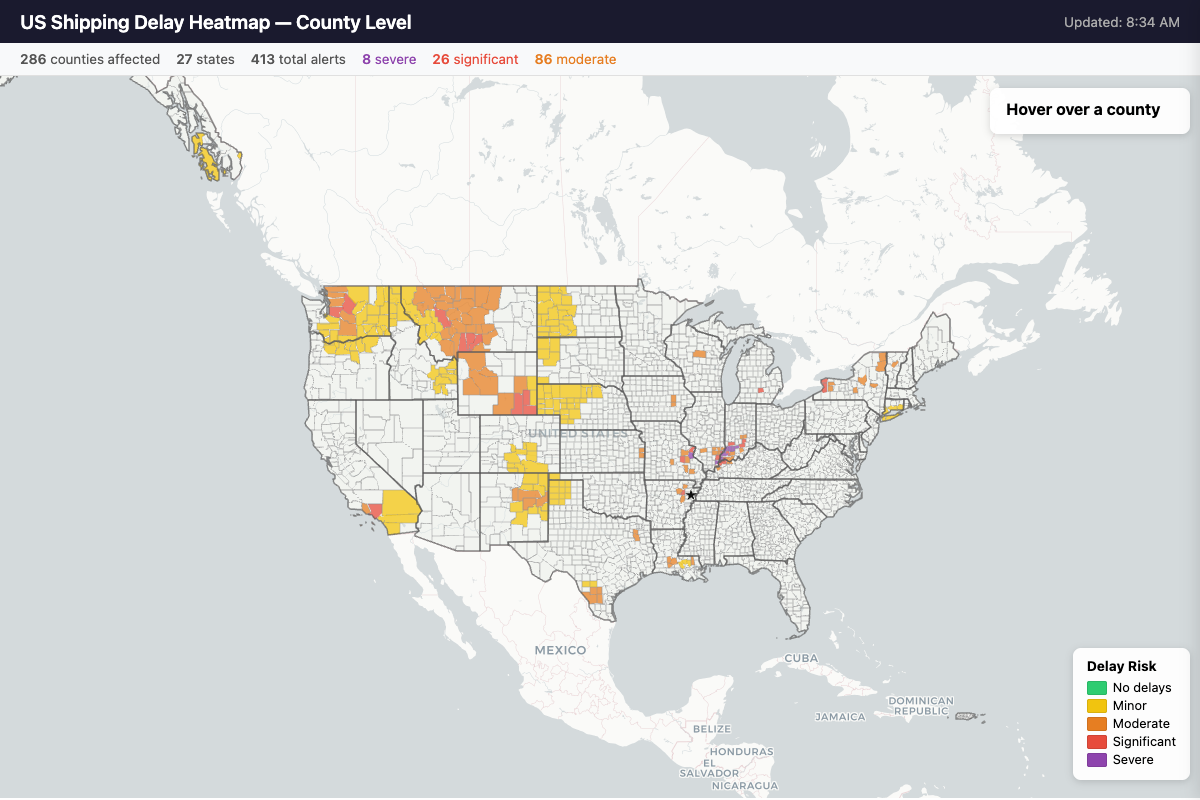
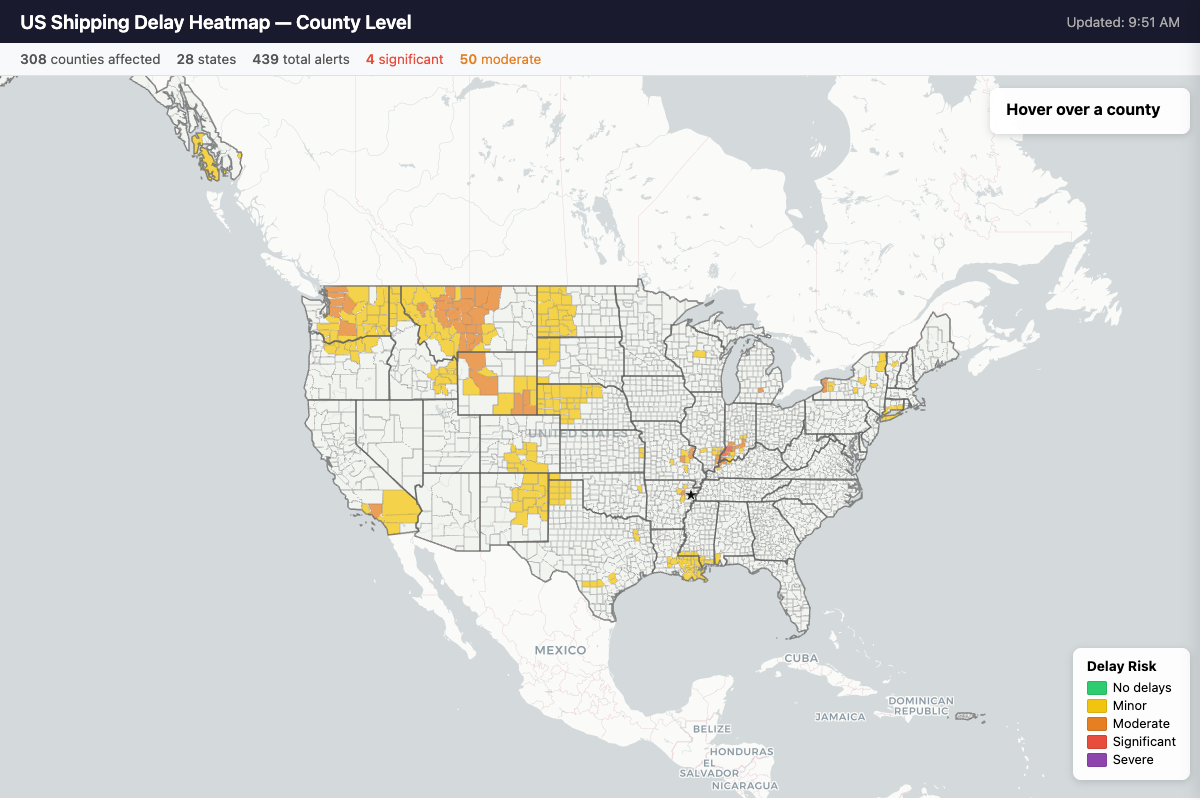
Reduce scoring sensitivity for non-winter weather events
Lower base scores for fire weather, wind, flood, fog, and smoke alerts
that rarely correlate with actual shipping delays. Raise moderate
disruption thresholds (totalCounties 300→500, maxRegionScore 1000→1500)
to reduce false positives. Winter/severe weather scores unchanged.

diff --git a/index.html b/index.html
@@ -268,10 +268,10 @@ const eventScores = {
   'Winter Weather': 5, 'Freezing Rain': 7, 'Wind Chill': 4, 'Extreme Cold': 5,
   'Frost': 2, 'Freeze': 3,
   'Hurricane': 10, 'Tropical Storm': 8, 'Storm Surge': 7, 'Tornado': 9,
-  'Severe Thunderstorm': 6, 'Flash Flood': 8, 'Flood': 7, 'Coastal Flood': 5,
-  'High Wind': 6, 'Extreme Wind': 9, 'Wind': 4, 'Dust Storm': 6,
-  'Dense Fog': 5, 'Freezing Fog': 6, 'Fire Weather': 2, 'Red Flag': 2,
-  'Excessive Heat': 3, 'Heat': 2, 'Dense Smoke': 5, 'Avalanche': 5,
+  'Severe Thunderstorm': 5, 'Flash Flood': 6, 'Flood': 3, 'Coastal Flood': 3,
+  'High Wind': 3, 'Extreme Wind': 9, 'Wind': 2, 'Dust Storm': 4,
+  'Dense Fog': 2, 'Freezing Fog': 6, 'Fire Weather': 1, 'Red Flag': 1,
+  'Excessive Heat': 3, 'Heat': 2, 'Dense Smoke': 3, 'Avalanche': 5,
 };
 const severityMultiplier = {
   'Extreme': 2.0, 'Severe': 1.5, 'Moderate': 1.0, 'Minor': 0.6, 'Unknown': 0.8
@@ -674,7 +674,7 @@ function generateReport() {
   let level, statusLabel;
   if (severeCounties > 20 || maxRegionScore > 3000 || totalCounties > 800) {
     level = 'high'; statusLabel = 'HIGH DISRUPTION';
-  } else if (significantCounties > 20 || maxRegionScore > 1000 || totalCounties > 300) {
+  } else if (significantCounties > 20 || maxRegionScore > 1500 || totalCounties > 500) {
     level = 'moderate'; statusLabel = 'MODERATE DISRUPTION';
   } else {
     level = 'low'; statusLabel = 'LOW RISK';
